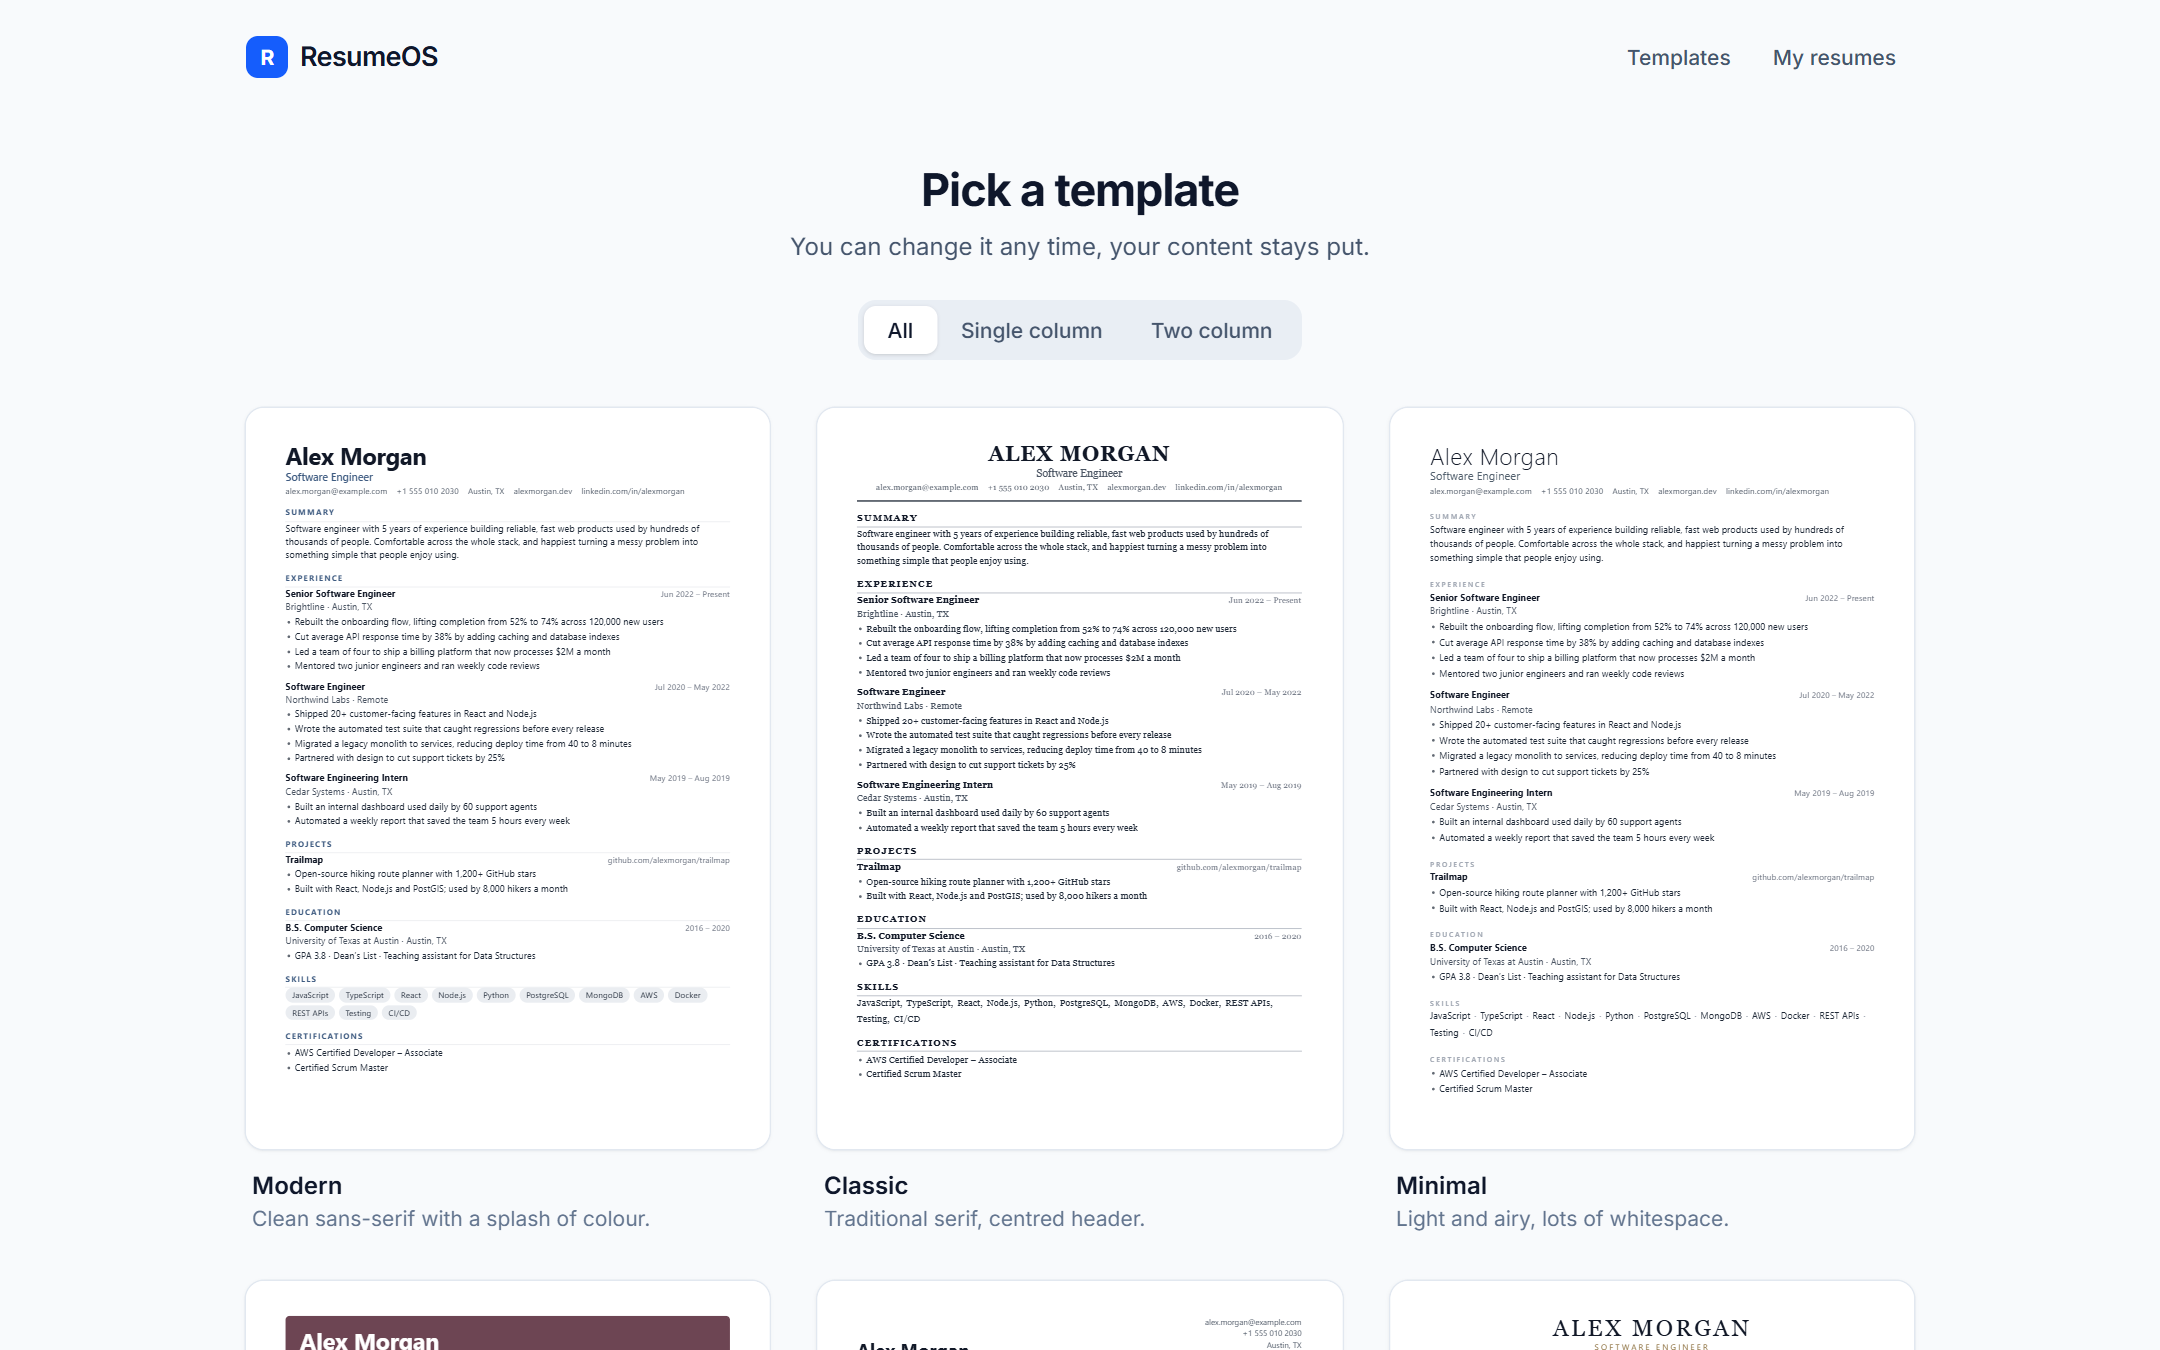
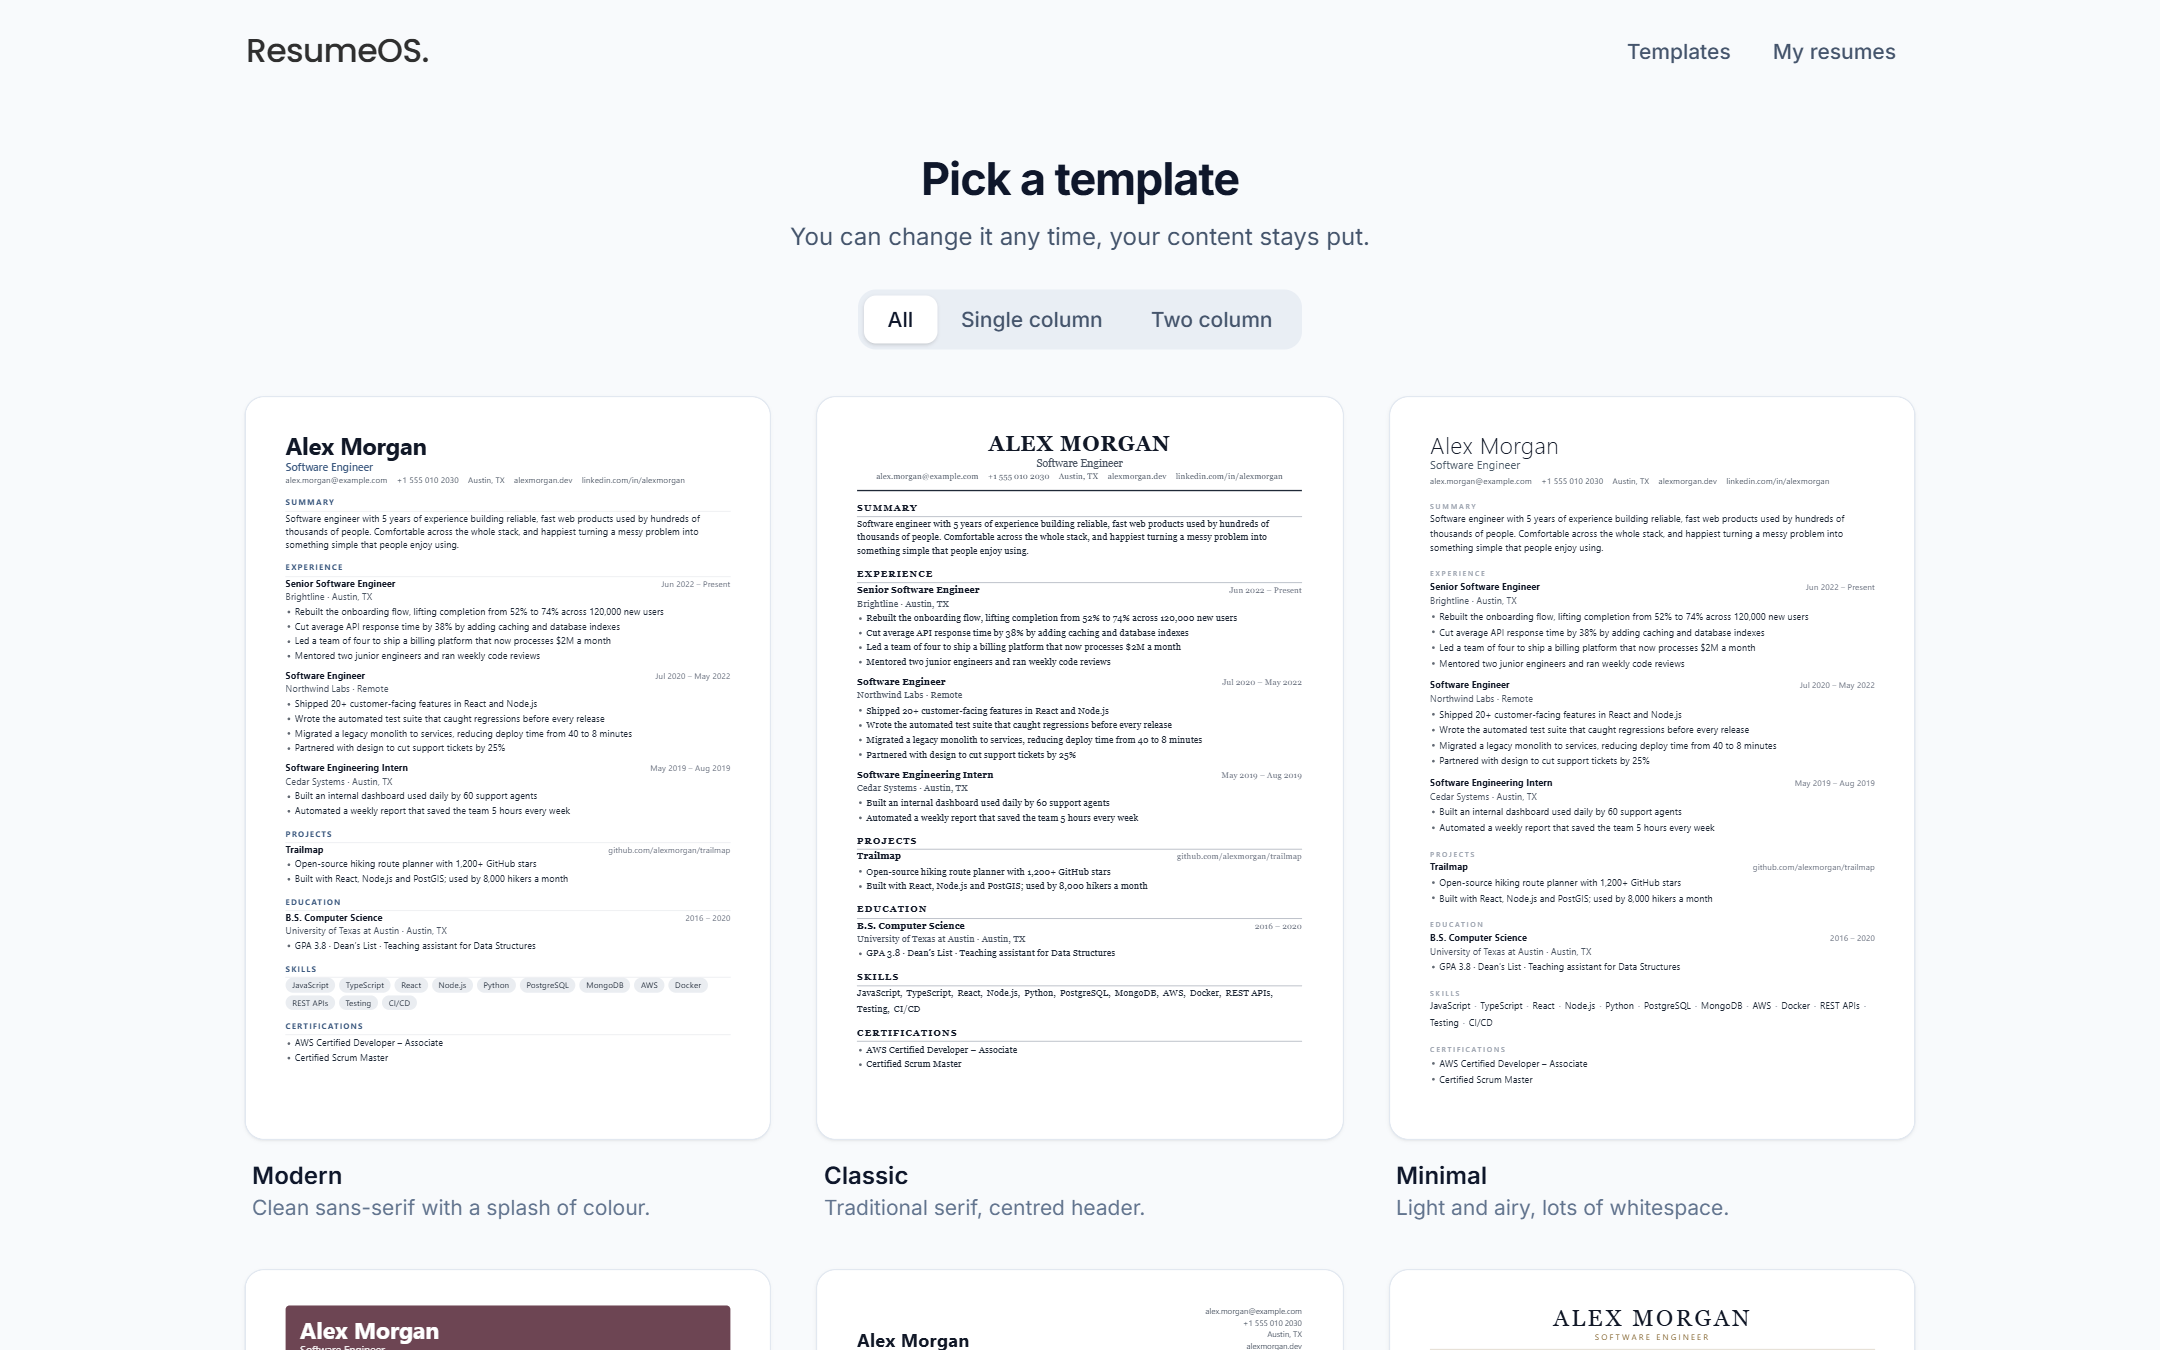
docs: polish the repository for public use
Live demo link and badges, fresh screenshots of the current design, and the
standard community files: CONTRIBUTING, SECURITY, issue and pull request
templates, Dependabot, .gitattributes and .editorconfig.

diff --git a/README.md b/README.md
@@ -11,6 +11,21 @@
 </p>
 
 <p align="center">
+  <a href="https://resumeos-eta.vercel.app"><b>Try it live &rarr;</b></a>
+</p>
+
+<p align="center">
+  <a href="https://resumeos-eta.vercel.app"><img alt="Live demo" src="https://img.shields.io/badge/live%20demo-resumeos--eta.vercel.app-0071e3" /></a>
+  <a href="https://github.com/Blunthead/resumeos/actions/workflows/ci.yml"><img alt="CI" src="https://github.com/Blunthead/resumeos/actions/workflows/ci.yml/badge.svg" /></a>
+  <a href="LICENSE"><img alt="MIT license" src="https://img.shields.io/badge/license-MIT-2f2f2f" /></a>
+  <img alt="Node 20+" src="https://img.shields.io/badge/node-%E2%89%A520-2f2f2f" />
+</p>
+
+<p align="center">
+  <img src="docs/screenshots/landing.png" alt="The ResumeOS landing page" width="900" />
+</p>
+
+<p align="center">
   <img src="docs/screenshots/editor.png" alt="The ResumeOS editor: a guided form on the left, a live resume preview on the right" width="900" />
 </p>
 
@@ -146,7 +161,7 @@ Opening a template is one request: the created resume is handed straight to the 
 
 ## Contributing
 
-Issues and pull requests are welcome. Please run `npm test` and `npm run typecheck` in `server/`, and `npm test`, `npm run lint` and `npm run build` in `frontend/`, before opening a PR. CI runs the same checks.
+Issues and pull requests are welcome. [CONTRIBUTING.md](CONTRIBUTING.md) covers running it locally and the checks CI runs. To report a security problem, see [SECURITY.md](SECURITY.md).
 
 ## License
 

diff --git a/CONTRIBUTING.md b/CONTRIBUTING.md
@@ -1,0 +1,40 @@
+# Contributing
+
+Thanks for helping out. Bug reports, ideas and pull requests are all welcome.
+
+## Run it locally
+
+```bash
+# Backend (http://localhost:5000). No MongoDB needed: it starts an embedded one.
+cd server && npm install && cp .env.example .env && npm run dev
+
+# Frontend (http://localhost:5173), in a second terminal
+cd frontend && npm install && cp .env.example .env && npm run dev
+```
+
+## Before you open a pull request
+
+Run the same checks CI runs:
+
+```bash
+cd server   && npm run typecheck && npm test
+cd frontend && npm run lint && npm test && npm run build
+```
+
+## Ground rules
+
+- **Keep changes small and focused.** One fix or feature per pull request.
+- **Match the surrounding code**: naming, comment density, formatting.
+- **Add a test** when you fix a bug or change behaviour. API behaviour belongs in
+  `server/tests/api.test.mjs`; pure helpers in `frontend/tests/`.
+- **Measure before optimising.** Say what you measured and what changed.
+- **Templates:** a new template id must be added in both
+  `frontend/src/lib/resume.js` and `server/src/lib/resumeSchema.ts`. A test
+  fails if the two lists drift apart.
+- **Never put secrets in the repo.** `.env` files are ignored; use
+  `.env.example` for documentation.
+
+## Reporting bugs
+
+Open an issue with what you did, what you expected, and what happened. A
+screenshot or the browser console output helps a lot.

diff --git a/SECURITY.md b/SECURITY.md
@@ -1,0 +1,17 @@
+# Security
+
+## Reporting a vulnerability
+
+Please report security problems privately rather than in a public issue: use
+GitHub's **Report a vulnerability** button on the repository's Security tab.
+Include what you found, how to reproduce it, and what you think the impact is.
+You'll get a reply within a few days.
+
+## What's worth knowing
+
+- There are no accounts. A browser-generated guest id scopes each visitor's
+  resumes; it is **not** authentication, and anyone who learns an id can read
+  that guest's resumes. This is documented under Limitations in the README.
+- The PDF route renders caller-supplied HTML in headless Chromium. JavaScript
+  is disabled and every network request is aborted. A way around that is the
+  kind of report we most want to hear about.

diff --git a/.github/PULL_REQUEST_TEMPLATE.md b/.github/PULL_REQUEST_TEMPLATE.md
@@ -1,0 +1,10 @@
+## What and why
+
+<!-- What does this change, and why is it needed? -->
+
+## How I checked it
+
+- [ ] `npm run typecheck` and `npm test` pass in `server/`
+- [ ] `npm run lint`, `npm test` and `npm run build` pass in `frontend/`
+- [ ] I added or updated a test (or this change doesn't need one)
+- [ ] For UI changes: screenshots attached

diff --git a/.github/ISSUE_TEMPLATE/bug_report.md b/.github/ISSUE_TEMPLATE/bug_report.md
@@ -1,0 +1,20 @@
+---
+name: Bug report
+about: Something isn't working
+labels: bug
+---
+
+**What happened**
+
+**What you expected**
+
+**Steps to reproduce**
+1.
+2.
+
+**Where**
+- Browser and version:
+- Device (desktop / phone):
+- Live site or local build:
+
+**Screenshots or console errors**

diff --git a/.github/ISSUE_TEMPLATE/feature_request.md b/.github/ISSUE_TEMPLATE/feature_request.md
@@ -1,0 +1,11 @@
+---
+name: Feature request
+about: Suggest an improvement
+labels: enhancement
+---
+
+**What problem would this solve?**
+
+**What would you like to happen?**
+
+**Anything you considered instead?**
